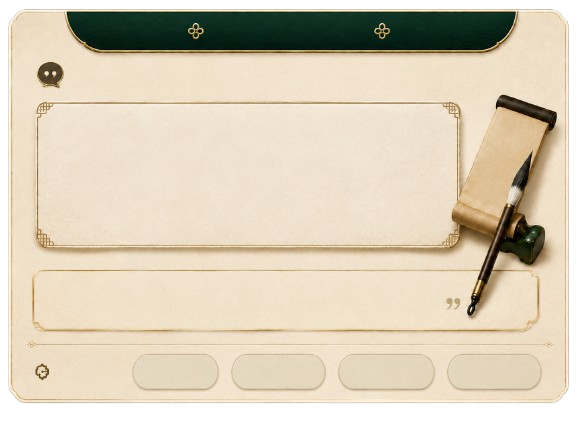
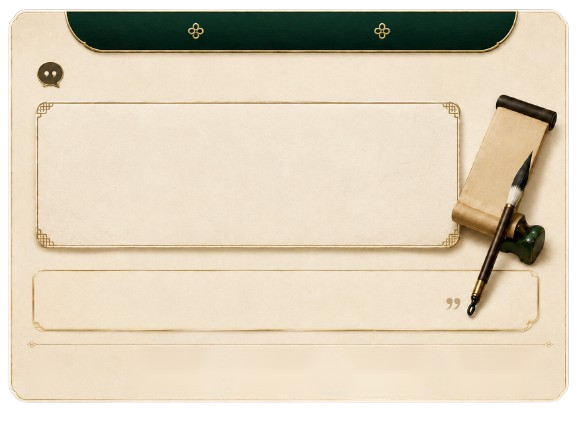
Use Tour API images in journey report

diff --git a/src/pages/MissionCompletePage.tsx b/src/pages/MissionCompletePage.tsx
@@ -3,10 +3,11 @@ import { useNavigate } from 'react-router-dom'
 import { CourseProgressBadge } from '../components/course/CourseProgressBadge'
 import { AppLayout } from '../components/layout/AppLayout'
 import {
+  getTourismDetail,
   getYeongjuTourismContents,
   searchYeongjuTourismByKeyword,
 } from '../features/tourism/tourismApi'
-import { getTourismPrimaryImageUrl } from '../features/tourism/tourismImageUrl'
+import { getTourismDisplayImageUrl } from '../features/tourism/tourismImageUrl'
 import type { TourismContent } from '../features/tourism/tourismTypes'
 import './MissionCompletePage.css'
 
@@ -79,7 +80,7 @@ const journeyReportData = {
     {
       place: '선비의 한마디',
       quote: '오늘의 길은 나를 돌아보는 시간이 되었다.',
-      asset: '1 (6).png',
+      asset: 'image-Photoroom (77).png',
     },
   ],
   aiAnalysis: {
@@ -105,6 +106,7 @@ const journeyReportData = {
     title: '처사형 자연 사색 코스도 둘러보세요.',
     body: '이번 여정에서 자연과 사색 키워드가 높게 나타났습니다.',
     thumbnail: 'image-removebg-preview (84).png',
+    imageKeywords: ['무섬마을', '부석사', '죽령옛길'],
   },
 }
 
@@ -118,12 +120,16 @@ const routeStops = [
 
 const tourApiReflectionPlaces = ['소수서원', '선비촌', '부석사', '무섬마을'] as const
 const reflectionTourApiImageCacheKey = 'yeongju-journey-reflection-tour-api-images'
+const nextRecommendationTourApiImageCacheKey =
+  'yeongju-next-recommendation-tour-api-image'
 
 type TourApiReflectionPlace = (typeof tourApiReflectionPlaces)[number]
 type ReflectionTourApiImageUrls = Partial<Record<TourApiReflectionPlace, string>>
 
 let reflectionTourApiImageMemoryCache: ReflectionTourApiImageUrls | null = null
 let reflectionTourApiImageRequestPromise: Promise<ReflectionTourApiImageUrls> | null = null
+let nextRecommendationTourApiImageMemoryCache: string | null = null
+let nextRecommendationTourApiImageRequestPromise: Promise<string> | null = null
 
 function imageAsset(fileName: string) {
   return encodeURI(`/images/new/${fileName}`)
@@ -133,6 +139,9 @@ export function MissionCompletePage() {
   const navigate = useNavigate()
   const [reflectionImageUrls, setReflectionImageUrls] =
     useState<ReflectionTourApiImageUrls>(() => readReflectionTourApiImageCache())
+  const [nextRecommendationImageUrl, setNextRecommendationImageUrl] = useState(
+    () => readNextRecommendationTourApiImageCache(),
+  )
 
   useEffect(() => {
     let isDisposed = false
@@ -146,7 +155,15 @@ export function MissionCompletePage() {
       )
     }
 
+    async function loadNextRecommendationImage() {
+      const imageUrl = await getNextRecommendationTourApiImageUrl()
+      if (isDisposed || !imageUrl) return
+
+      setNextRecommendationImageUrl(imageUrl)
+    }
+
     void loadReflectionImages()
+    void loadNextRecommendationImage()
 
     return () => {
       isDisposed = true
@@ -185,7 +202,10 @@ export function MissionCompletePage() {
           </section>
           <section className="journey-report-bottom" aria-label="획득 배지와 다음 추천">
             <EarnedBadgesCard />
-            <NextRecommendationCard onRecommend={() => navigate('/course')} />
+            <NextRecommendationCard
+              imageUrl={nextRecommendationImageUrl}
+              onRecommend={() => navigate('/course')}
+            />
           </section>
           <JourneyReportActionBar
             onArchive={() => navigate('/mypage')}
@@ -424,13 +444,22 @@ function EarnedBadgesCard() {
   )
 }
 
-function NextRecommendationCard({ onRecommend }: { onRecommend: () => void }) {
+function NextRecommendationCard({
+  imageUrl,
+  onRecommend,
+}: {
+  imageUrl: string
+  onRecommend: () => void
+}) {
+  const thumbnailSrc =
+    imageUrl || imageAsset(journeyReportData.nextRecommendation.thumbnail)
+
   return (
     <article className="journey-card journey-next-card">
       <CardTitle>다음 추천</CardTitle>
       <img
         className="journey-next-thumb"
-        src={imageAsset(journeyReportData.nextRecommendation.thumbnail)}
+        src={thumbnailSrc}
         alt=""
       />
       <div>
@@ -556,20 +585,37 @@ async function requestMissingReflectionTourApiImageUrls(
   )
   if (stillMissingPlaces.length === 0) return mergedAreaBasedImageUrls
 
+  const areaBasedDetailImageUrls = await getReflectionDetailImageUrlsFromTourismItems(
+    areaBasedResponse.contents,
+    stillMissingPlaces,
+  )
+  const mergedDetailImageUrls = mergeReflectionTourApiImageUrls(
+    mergedAreaBasedImageUrls,
+    areaBasedDetailImageUrls,
+  )
+  writeReflectionTourApiImageCache(mergedDetailImageUrls)
+
+  const keywordMissingPlaces = stillMissingPlaces.filter(
+    (place) => !mergedDetailImageUrls[place],
+  )
+  if (keywordMissingPlaces.length === 0) return mergedDetailImageUrls
+
   const keywordImageUrls: ReflectionTourApiImageUrls = {}
 
-  for (const place of stillMissingPlaces) {
+  for (const place of keywordMissingPlaces) {
     const keywordResponse = await searchYeongjuTourismByKeyword(place)
-    const imageUrl = getBestMatchingReflectionImageUrl(keywordResponse.contents, place)
+    const imageUrl =
+      getBestMatchingReflectionImageUrl(keywordResponse.contents, place) ||
+      (await getBestMatchingReflectionDetailImageUrl(keywordResponse.contents, place))
     if (imageUrl) {
       keywordImageUrls[place] = imageUrl
       writeReflectionTourApiImageCache(
-        mergeReflectionTourApiImageUrls(mergedAreaBasedImageUrls, keywordImageUrls),
+        mergeReflectionTourApiImageUrls(mergedDetailImageUrls, keywordImageUrls),
       )
     }
   }
 
-  return mergeReflectionTourApiImageUrls(mergedAreaBasedImageUrls, keywordImageUrls)
+  return mergeReflectionTourApiImageUrls(mergedDetailImageUrls, keywordImageUrls)
 }
 
 function getReflectionImageUrlsFromTourismItems(
@@ -590,21 +636,115 @@ function getBestMatchingReflectionImageUrl(
   items: TourismContent[],
   place: TourApiReflectionPlace,
 ) {
-  const candidates = items
-    .map((item) => ({
-      item,
-      imageUrl: getTourismPrimaryImageUrl(item),
-      score: getReflectionPlaceMatchScore(item, place),
+  return getBestMatchingTourismImageUrl(items, place)
+}
+
+async function getReflectionDetailImageUrlsFromTourismItems(
+  items: TourismContent[],
+  places: readonly TourApiReflectionPlace[],
+) {
+  const imageUrls: ReflectionTourApiImageUrls = {}
+
+  for (const place of places) {
+    const imageUrl = await getBestMatchingReflectionDetailImageUrl(items, place)
+    if (imageUrl) imageUrls[place] = imageUrl
+  }
+
+  return imageUrls
+}
+
+async function getBestMatchingReflectionDetailImageUrl(
+  items: TourismContent[],
+  place: TourApiReflectionPlace,
+) {
+  return getBestMatchingTourismDetailImageUrl(items, place)
+}
+
+async function getNextRecommendationTourApiImageUrl() {
+  const cachedImageUrl = readNextRecommendationTourApiImageCache()
+  if (cachedImageUrl) return cachedImageUrl
+
+  if (!nextRecommendationTourApiImageRequestPromise) {
+    nextRecommendationTourApiImageRequestPromise = requestNextRecommendationTourApiImageUrl()
+      .finally(() => {
+        nextRecommendationTourApiImageRequestPromise = null
+      })
+  }
+
+  return nextRecommendationTourApiImageRequestPromise
+}
+
+async function requestNextRecommendationTourApiImageUrl() {
+  for (const keyword of journeyReportData.nextRecommendation.imageKeywords) {
+    const keywordResponse = await searchYeongjuTourismByKeyword(keyword)
+    const imageUrl =
+      getBestMatchingTourismImageUrl(keywordResponse.contents, keyword) ||
+      (await getBestMatchingTourismDetailImageUrl(keywordResponse.contents, keyword))
+
+    if (imageUrl) {
+      writeNextRecommendationTourApiImageCache(imageUrl)
+      return imageUrl
+    }
+  }
+
+  return ''
+}
+
+function getBestMatchingTourismImageUrl(
+  items: TourismContent[],
+  place: string,
+) {
+  const candidates = getSortedTourismPlaceCandidates(items, place)
+    .map((candidate) => ({
+      ...candidate,
+      imageUrl: getTourismDisplayImageUrl(candidate.item),
     }))
-    .filter((candidate) => candidate.imageUrl && candidate.score > 0)
-    .sort((a, b) => b.score - a.score)
+    .filter((candidate) => candidate.imageUrl)
 
   return candidates[0]?.imageUrl ?? ''
 }
 
+async function getBestMatchingTourismDetailImageUrl(
+  items: TourismContent[],
+  place: string,
+) {
+  const candidates = getSortedTourismPlaceCandidates(items, place).filter(
+    ({ item }) => item.source === 'TourAPI' && item.contentId && item.contentTypeId,
+  )
+
+  for (const { item } of candidates) {
+    const detailResponse = await getTourismDetail(item)
+    const detail = detailResponse.detail
+    if (!detail || detailResponse.status !== 'ready') continue
+
+    const detailItemImageUrl = getTourismDisplayImageUrl(detail.item)
+    if (detailItemImageUrl) return detailItemImageUrl
+
+    const detailImageUrl = detail.images
+      .map((image) => getTourismDisplayImageUrl(image))
+      .find(Boolean)
+    if (detailImageUrl) return detailImageUrl
+  }
+
+  return ''
+}
+
+function getSortedTourismPlaceCandidates(
+  items: TourismContent[],
+  place: string,
+) {
+  return items
+    .map((item) => ({
+      item,
+      score: getReflectionPlaceMatchScore(item, place),
+    }))
+    .filter((candidate) => candidate.score > 0)
+    .sort((a, b) => b.score - a.score)
+}
+
 function getReflectionPlaceMatchScore(
   item: TourismContent,
-  place: TourApiReflectionPlace,
+  place: string,
 ) {
   const itemTitle = normalizeReflectionPlaceName(item.title ?? item.name)
   const placeName = normalizeReflectionPlaceName(place)
@@ -680,5 +820,34 @@ function writeReflectionTourApiImageCache(imageUrls: ReflectionTourApiImageUrls)
     )
   } catch {
     // The report can still render with local fallback images if storage is unavailable.
+  }
+}
+
+function readNextRecommendationTourApiImageCache() {
+  if (nextRecommendationTourApiImageMemoryCache) {
+    return nextRecommendationTourApiImageMemoryCache
+  }
+  if (typeof window === 'undefined') return ''
+
+  try {
+    const cachedValue = window.localStorage.getItem(nextRecommendationTourApiImageCacheKey)
+    if (!cachedValue) return ''
+
+    nextRecommendationTourApiImageMemoryCache = cachedValue
+    return cachedValue
+  } catch {
+    return ''
+  }
+}
+
+function writeNextRecommendationTourApiImageCache(imageUrl: string) {
+  nextRecommendationTourApiImageMemoryCache = imageUrl
+
+  if (typeof window === 'undefined') return
+
+  try {
+    window.localStorage.setItem(nextRecommendationTourApiImageCacheKey, imageUrl)
+  } catch {
+    // The recommendation card can still render with its local fallback image.
   }
 }

diff --git a/src/features/tourism/tourismApi.ts b/src/features/tourism/tourismApi.ts
@@ -87,11 +87,35 @@ export async function searchYeongjuTourismByKeyword(
   keyword: string,
 ): Promise<TourismApiResponse> {
   const query = [yeongjuKeyword, keyword].filter(Boolean).join(' ')
-  return requestTourismProxyWithLocal(
+  const scopedResponse = await requestTourismProxyWithLocal(
     { type: 'keyword', keyword: query },
     'all',
     keyword,
   )
+  if (hasTourApiContent(scopedResponse)) return scopedResponse
+
+  const fallbackResponse = await requestTourismProxyWithLocal(
+    { type: 'keyword', keyword },
+    'all',
+    keyword,
+  )
+  const contents = mergeTourismContentLists(
+    scopedResponse.contents,
+    fallbackResponse.contents,
+  )
+
+  if (contents.length === 0) return fallbackResponse
+
+  return {
+    ...fallbackResponse,
+    contents,
+    status: 'ready',
+    reason: undefined,
+    message: createMergedTourismMessage(
+      combineTourismMessages(scopedResponse.message, fallbackResponse.message),
+      0,
+    ),
+  }
 }
 
 export async function getTourismDetail(
@@ -429,4 +453,16 @@ function createMergedTourismMessage(message: string | undefined, localCount: num
 
   const localMessage = `영주시 보강 공공데이터 ${localCount}건을 함께 적용했습니다.`
   return message ? `${message} ${localMessage}` : localMessage
+}
+
+function hasTourApiContent(response: TourismApiResponse) {
+  return response.contents.some((content) => content.source === 'TourAPI')
+}
+
+function combineTourismMessages(...messages: Array<string | undefined>) {
+  return messages
+    .filter((message, index, messageList) => {
+      return Boolean(message) && messageList.indexOf(message) === index
+    })
+    .join(' ') || undefined
 }

diff --git a/src/features/tourism/tourismImageUrl.ts b/src/features/tourism/tourismImageUrl.ts
@@ -27,3 +27,14 @@ export function getTourismPrimaryImageUrl(
 ) {
   return normalizeTourApiImageUrl(item.firstImage || item.firstImage2)
 }
+
+export function getTourismDisplayImageUrl(
+  item: Pick<
+    TourismContent,
+    'firstImage' | 'firstImage2' | 'originImage' | 'smallImage'
+  >,
+) {
+  return normalizeTourApiImageUrl(
+    item.firstImage || item.firstImage2 || item.originImage || item.smallImage,
+  )
+}